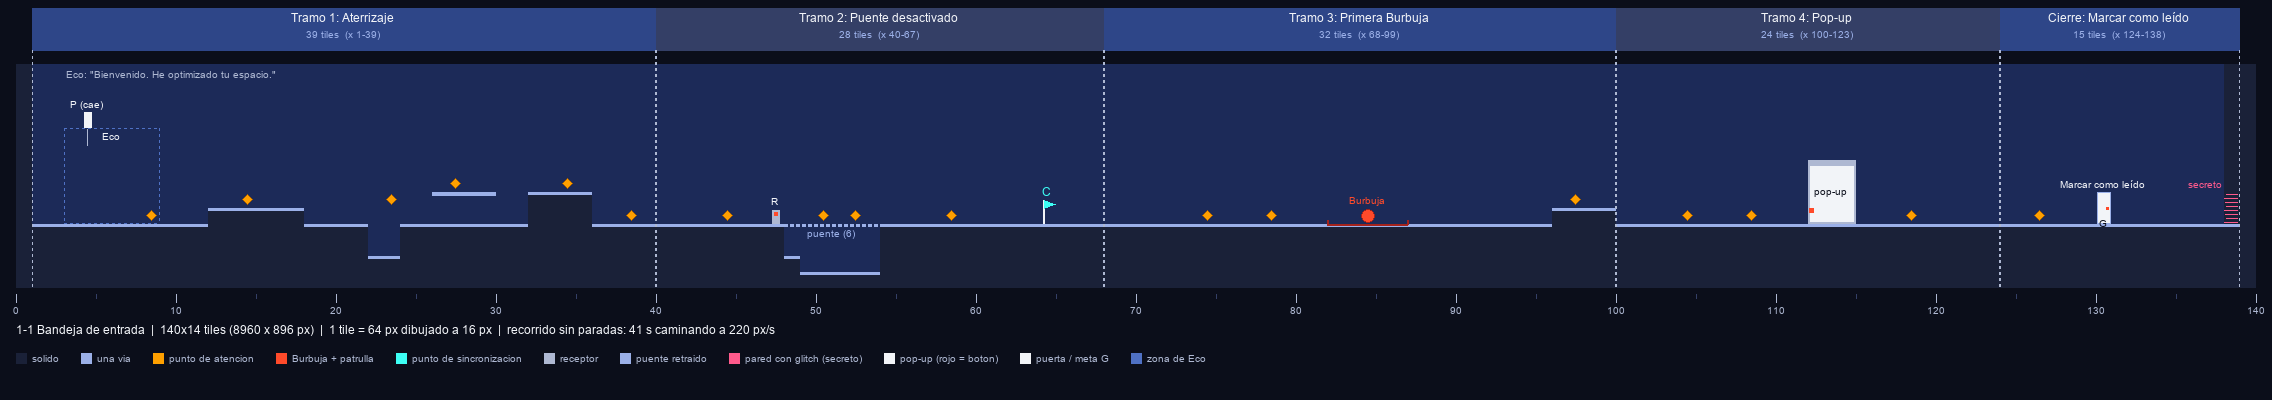
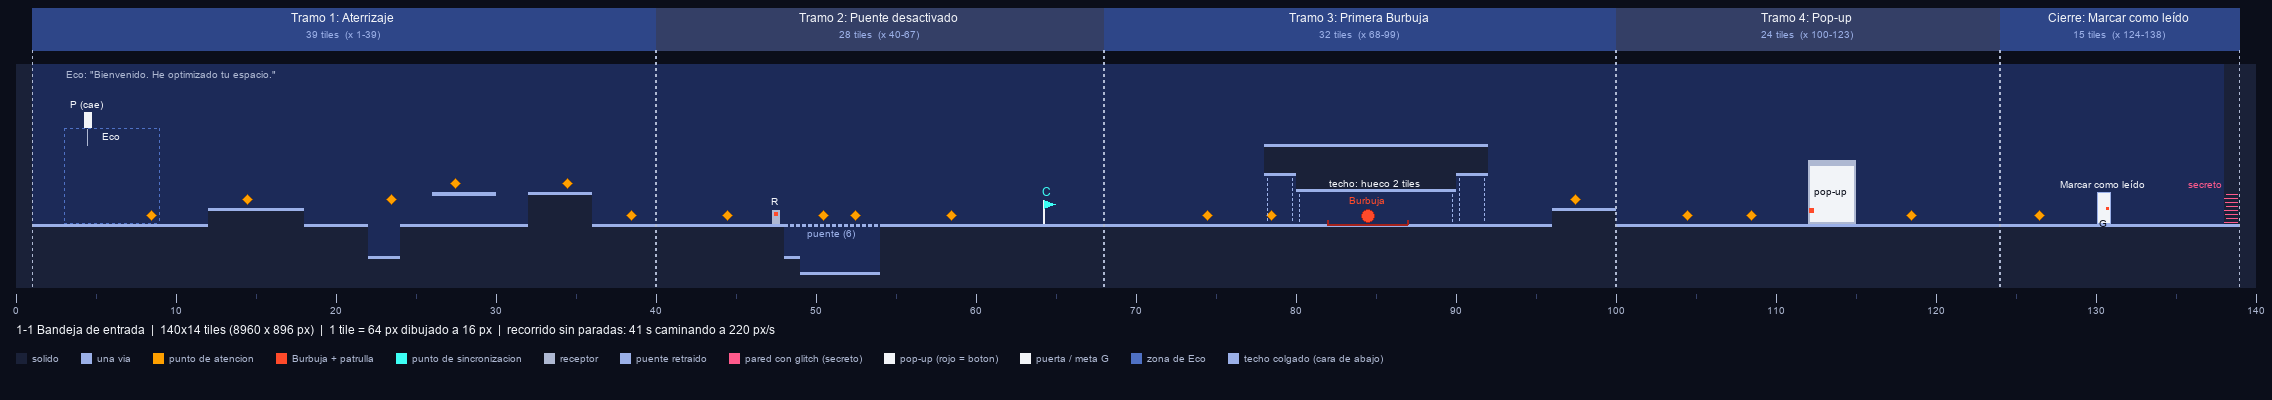
Paso 14b: techo bajo del Tramo 3

Changed region(s): [[0.5312, 0.36, 0.6562, 0.48], [0.5312, 0.87, 0.5938, 0.93]]

diff --git a/tests/test_level_schema.py b/tests/test_level_schema.py
@@ -94,7 +94,12 @@ class LevelSchemaTest(unittest.TestCase):
         rows = len(grid)
 
         def surface(x):
-            return next((y for y in range(rows) if grid[y][x] == "#"), rows)
+            # Suelo pisable: cima del bloque solido que sube desde la ultima fila
+            # (un techo colgado, como el del Tramo 3, no es suelo).
+            y = rows
+            while y > 0 and grid[y - 1][x] == "#":
+                y -= 1
+            return y
 
         bridge = obj(self.level, "bridge_inactive")
         bridge_cols = set(range(bridge["x"], bridge["x"] + bridge["params"]["length_tiles"]))
@@ -124,6 +129,58 @@ class LevelSchemaTest(unittest.TestCase):
         after = bridge["x"] + bridge["params"]["length_tiles"]
         self.assertGreater(len(bridge_cols), 0.85 * phys["run_speed"] * t_air / tile)
         self.assertGreater(surface(after - 1) - surface(after), real_height_tiles)
+
+    def test_level_1_1_tramo3_low_ceiling(self):
+        """Tramo 3 (decision 2026-10-14): techo bajo de 2 tiles sobre toda la patrulla de la
+        Burbuja (y algo mas), con escalones de 3 tiles a los lados y la cara de arriba fuera
+        del alcance del salto. La prueba de simulacion es tests/test_tramo3_ceiling.gd."""
+        with open(os.path.join(ROOT, "data", "isak_physics.json"), encoding="utf-8") as handle:
+            phys = json.load(handle)
+        with open(os.path.join(ROOT, "data", "enemies", "alert_bubble.json"), encoding="utf-8") as handle:
+            bubble_data = json.load(handle)
+        tile = phys["tile_size"]
+        grid = self.level["grid"]
+        rows = len(grid)
+        bubble = self.level["enemies"][0]
+        floor_y = bubble["y"] + 1
+
+        def ceiling(x):
+            """(fila de abajo, fila de arriba) del techo colgado sobre el suelo, o None."""
+            y = floor_y - 1
+            while y >= 0 and grid[y][x] != "#":
+                y -= 1
+            if y < 0:
+                return None
+            top = y
+            while top > 0 and grid[top - 1][x] == "#":
+                top -= 1
+            return y, top
+
+        half_range = bubble["params"]["patrol_range_px"] / 2.0 + bubble_data["body_size"][0] / 2.0
+        center = (bubble["x"] + 0.5) * tile
+        first = int((center - half_range) // tile) - 1
+        last = int((center + half_range) // tile) + 1
+        for x in range(first, last + 1):
+            c = ceiling(x)
+            self.assertIsNotNone(c, "techo sobre la columna %d" % x)
+            self.assertEqual(floor_y - 1 - c[0], 2, "hueco de 2 tiles en la columna %d" % x)
+            self.assertGreater((floor_y - c[1]) * tile, phys["jump_height_px"],
+                               "la cara de arriba del techo no se alcanza saltando (columna %d)" % x)
+        # Escalones a los dos lados del tramo de 2 tiles: hueco de 3 tiles.
+        def clearance(x):
+            c = ceiling(x)
+            return None if c is None else floor_y - 1 - c[0]
+        while clearance(first - 1) == 2:
+            first -= 1
+        while clearance(last + 1) == 2:
+            last += 1
+        for x in (first - 1, last + 1):
+            c = ceiling(x)
+            self.assertIsNotNone(c, "escalon en la columna %d" % x)
+            self.assertEqual(floor_y - 1 - c[0], 3, "escalon de 3 tiles en la columna %d" % x)
+        # Bajo el techo Isak no levanta los pies por encima de la Burbuja.
+        isak_height = 80.0
+        self.assertLess(2 * tile - isak_height, bubble_data["body_size"][1])
 
     # --- Variantes rotas ---
 

diff --git a/tools/render_level_map.py b/tools/render_level_map.py
@@ -1,6 +1,7 @@
 #!/usr/bin/env python3
 """Imagen de revision de un nivel (data/levels/<m>-<n>.json): el grid con la paleta del
 mundo, simbolos para objetos, enemigos, checkpoints, secretos y puntos de atencion,
+techos colgados (cara de abajo resaltada y alto del hueco hasta el suelo),
 bandas de los tramos (`sections`) con su ancho en tiles y una regla cada 10 tiles.
 
 Cada tile de 64 px se dibuja a 16 px (escala 1/4) para que el nivel entero quepa en una
@@ -92,6 +93,38 @@ def render(level, palette):
 
     def label(x_px, y_px, text, color, fnt=small, anchor="mm"):
         d.text((x_px, y_px), text, fill=color, font=fnt, anchor=anchor)
+
+    # Techos colgados (p. ej. el techo bajo del Tramo 3): cara de abajo en borde_luz, el
+    # hueco libre hasta el suelo con una linea discontinua y el alto del hueco en tiles.
+    def clearance(x, y):
+        """Celdas libres bajo la celda solida (x, y) hasta el siguiente solido, o None."""
+        if not solid(x, y) or solid(x, y + 1):
+            return None
+        free = 0
+        while y + 1 + free < rows and not solid(x, y + 1 + free):
+            free += 1
+        return free if y + 1 + free < rows else None
+
+    for y in range(rows):
+        x = 0
+        while x < cols:
+            gap = clearance(x, y)
+            if gap is None or gap > 4 or all(solid(x, yy) for yy in range(0, y + 1)):
+                x += 1
+                continue
+            end = x
+            while end + 1 < cols and clearance(end + 1, y) == gap:
+                end += 1
+            x0, y0, _, y1 = box(x, y)
+            x1 = box(end, y)[2]
+            d.rectangle((x0, y1 - 2, x1, y1), fill=palette["borde_luz"])
+            for xx in (x0 + 3, x1 - 3):
+                for yy in range(y1 + 3, y1 + gap * CELL - 1, 5):
+                    d.line((xx, yy, xx, yy + 2), fill=palette["borde_luz"])
+            if end - x >= 3:
+                label((x0 + x1) // 2, (y0 + y1) // 2, "techo: hueco %d tiles" % gap,
+                      palette["banner_blanco"])
+            x = end + 1
 
     # Objetos.
     for obj in level.get("objects", []):
@@ -210,7 +243,8 @@ def render(level, palette):
              ("C", "punto de sincronizacion", palette["debug_cian"]), ("R", "receptor", palette["banner_gris"]),
              ("~", "puente retraido", palette["borde_luz"]), ("W", "pared con glitch (secreto)", palette["carmin_brillo"]),
              ("X", "pop-up (rojo = boton)", palette["banner_blanco"]), ("D", "puerta / meta G", palette["banner_blanco"]),
-             ("e", "zona de Eco", palette["resplandor"])]
+             ("e", "zona de Eco", palette["resplandor"]),
+             ("T", "techo colgado (cara de abajo)", palette["borde_luz"])]
     lx = SIDE
     for _, text, color in items:
         d.rectangle((lx, ly - 5, lx + 10, ly + 5), fill=color)
